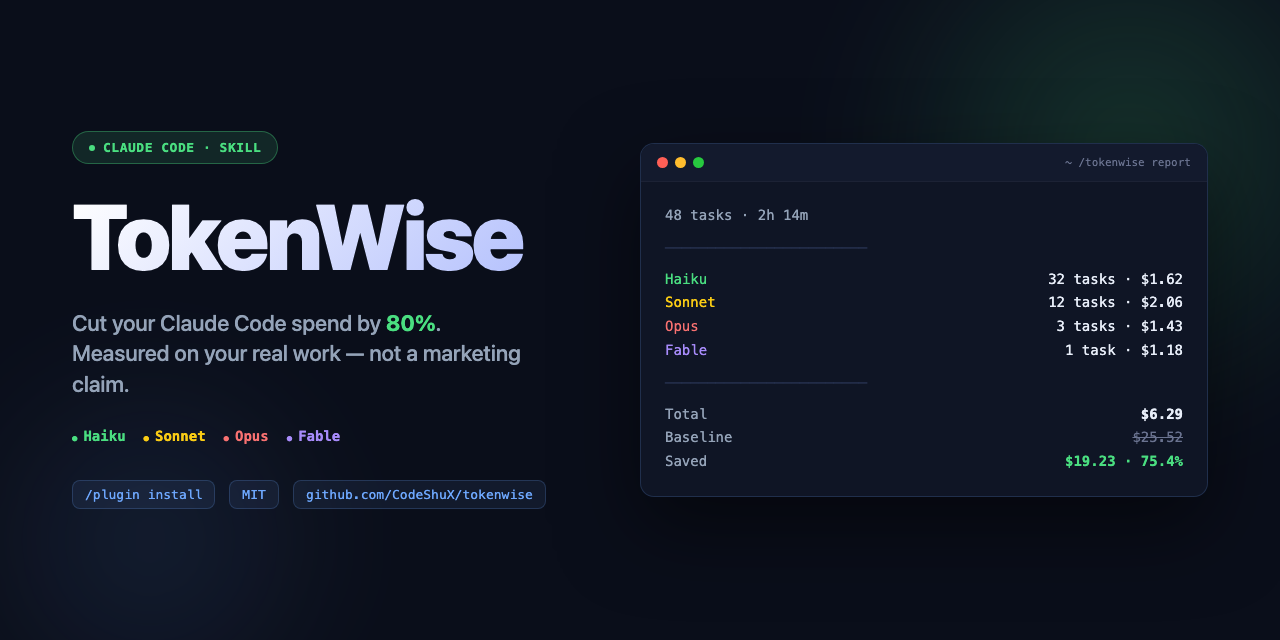
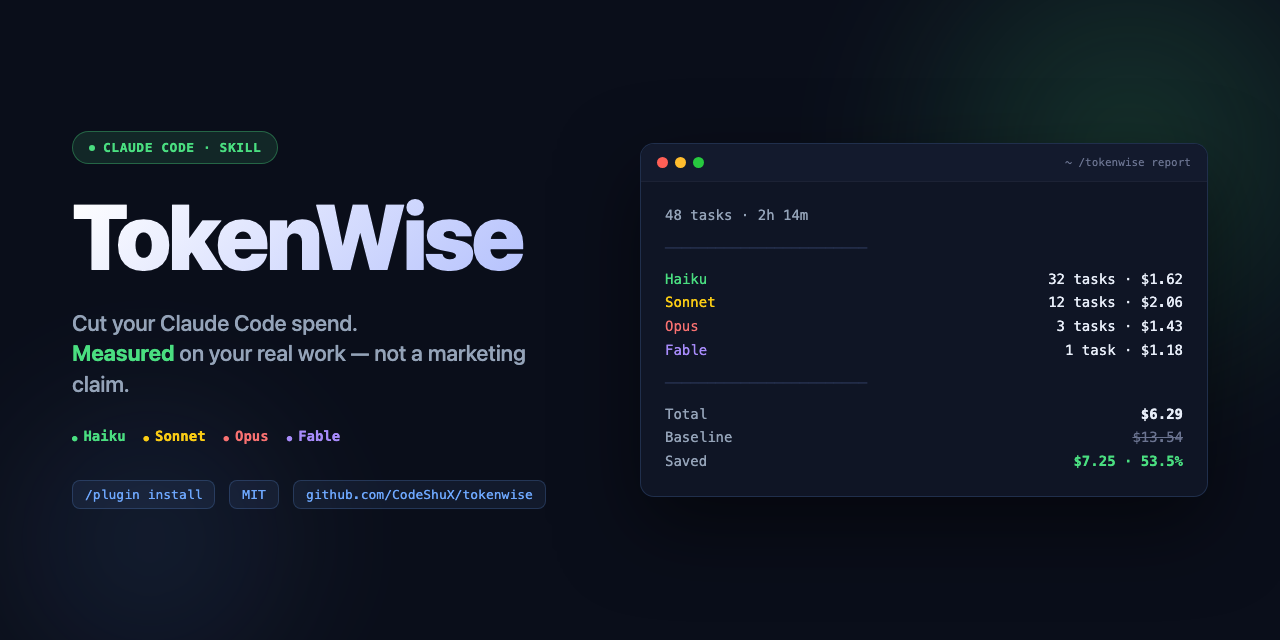
fix: make every sample report's math actually reconcile (#6)
Baseline math didn't reconcile with its own token counts anywhere in the repo (~1.9x inflated); defined the methodology, recomputed every sample, and dropped the unsupported 80% headline.

Changed region(s): [[0.0312, 0.4688, 0.4062, 0.5625]]

diff --git a/assets/social-preview.html b/assets/social-preview.html
@@ -202,8 +202,8 @@
       <div class="badge">CLAUDE CODE · SKILL</div>
       <div class="wordmark">TokenWise</div>
       <div class="tagline">
-        Cut your Claude Code spend by <strong>80%</strong>.<br/>
-        Measured on your real work — not a marketing claim.
+        Cut your Claude Code spend.<br/>
+        <strong>Measured</strong> on your real work — not a marketing claim.
       </div>
       <div class="models-line">
         <span class="haiku">Haiku</span>
@@ -235,8 +235,8 @@
           <div class="row"><span class="fable">Fable</span><span class="cmd">1 task · $1.18</span></div>
           <div class="divider">────────────────────────</div>
           <div class="row"><span class="label">Total</span><span class="total">$6.29</span></div>
-          <div class="row"><span class="label">Baseline</span><span class="strike">$25.52</span></div>
-          <div class="row"><span class="label">Saved</span><span class="saved">$19.23 · 75.4%</span></div>
+          <div class="row"><span class="label">Baseline</span><span class="strike">$13.54</span></div>
+          <div class="row"><span class="label">Saved</span><span class="saved">$7.25 · 53.5%</span></div>
         </div>
       </div>
     </div>

diff --git a/CHANGELOG.md b/CHANGELOG.md
@@ -24,6 +24,9 @@ The format is based on [Keep a Changelog](https://keepachangelog.com/en/1.1.0/).
 - `/tokenwise:install`'s settings.json diff step could have echoed a real pre-existing secret from the user's `env` block (found via a live dry-run simulation against a real config) — the diff now redacts any existing key that looks like a secret before printing it.
 - CLAUDE.md routing-block insertion point was unspecified when no markers exist yet — now explicit (append at end of file).
 - The "no Task tool available" case for the routing probe now falls back the same way as "Task tool ignores `model:`", instead of being unhandled.
+- **`cost_baseline_usd` was never actually defined anywhere, and every sample report's baseline didn't reconcile with its own token counts** (~1.9× inflated when independently re-priced at Opus rate — caught by re-running the exact `jq`/`awk` command `examples/session-report.md` itself tells readers to use). Baseline is now explicitly defined (a task's own tokens, re-priced at Opus rate) in `skills/install/SKILL.md`, and every sample report — README, SPEC, the hero card, and `examples/session-report.md` — has been recomputed to match it exactly. The hero image's "Cut your Claude Code spend by 80%" headline is removed for the same reason: no sample in this repo supports that number once the math is checked.
+- CHANGELOG's own `[0.1.0]` entry claimed a "budget cap" shipped; it never existed in any skill file. Corrected rather than left as a standing false claim.
+- Execution tier's routing rule said "≤2 named files" while its own prose description said "single-file" in three places — reworded the prose to "1-2 files" to match the actual rule.
 
 ## [0.1.1] — 2026-05-11
 
@@ -49,7 +52,7 @@ The format is based on [Keep a Changelog](https://keepachangelog.com/en/1.1.0/).
 - Safety caps: Haiku never spawns subagents; max depth 2; trivial-task floor.
 - NDJSON measurement log at `.tokenwise/log.ndjson` (zero telemetry, local only).
 - Phase-1 probes for `CLAUDE_AUTOCOMPACT_PCT_OVERRIDE` and subagent `model:` param (Anthropic Issues #36381, #47488).
-- Prompt-cache hint detector + context-window watcher + budget cap.
+- Prompt-cache hint detector + context-window watcher. (Budget cap was listed as in-scope for this release but was never actually specified in any skill file — corrected here rather than left as a false claim; see the [0.2.0] entry, which formally defers it to v0.3.)
 
 ### Known limitations
 - Token counts approximate to ±2% vs Anthropic billing.

diff --git a/skills/install/SKILL.md b/skills/install/SKILL.md
@@ -89,8 +89,8 @@ needs a confirmation prompt:
 
 - **Mechanical → Haiku** (5× cheaper than Opus) — one-right-answer work: file reads,
   grep, format, rename, simple edits, doc lookups. No judgment calls.
-- **Execution → Sonnet** (~1.67× cheaper than Opus) — bounded implementation: single-file
-  refactor, test writing, bug-fix in a known file, scoped research and code exploration.
+- **Execution → Sonnet** (~1.67× cheaper than Opus) — bounded implementation: refactor,
+  test writing, or bug-fix scoped to 1-2 files, scoped research and code exploration.
   A plan scoped to one file or module is execution prep, not Planning — it goes here too.
 - **Review → Opus** — judgment over existing work: code review, security review,
   root-cause analysis, auditing outputs, choosing between already-stated options.
@@ -132,6 +132,11 @@ After every routed Task, append one NDJSON line to `.tokenwise/log.ndjson` in th
  "escalated": bool,
  "escalation_reason": null|"needs-mechanical"|"needs-execution"|"needs-review"|"needs-planning"|"ambiguous-spec"|"insufficient-capability",
  "duration_ms": N}
+
+`cost_baseline_usd` is this task's own `input_tokens`/`output_tokens` re-priced at Opus's
+rate — not a separate estimate. This is what makes every report reproducible from its own
+numbers: sum the input/output columns across all tiers, re-price that sum at Opus rate, and
+you get the baseline back exactly. `savings_usd = cost_baseline_usd - cost_actual_usd`.
 
 Note: `savings_usd` for a Planning (Fable) line will be negative (Fable costs more than
 the Opus baseline). That's expected — log it as-is, don't clamp to zero.

diff --git a/README.md b/README.md
@@ -1,5 +1,5 @@
 <p align="center">
-  <img src="./assets/social-preview.png" alt="TokenWise — Cut your Claude Code spend by 80%. Measured on your real work, not a marketing claim." width="100%" />
+  <img src="./assets/social-preview.png" alt="TokenWise — Cut your Claude Code spend, measured on your real work, not a marketing claim." width="100%" />
 </p>
 
 # TokenWise
@@ -63,7 +63,7 @@ The router classifies every task by type into four tiers — each one a direct, 
 | Tier | Model | What it gets |
 |---|---|---|
 | **Mechanical** | Haiku 4.5 | file reads, grep, format, rename, simple edits, doc lookups |
-| **Execution** | Sonnet 4.6 | single-file refactor, test writing, scoped research, code exploration, small-scoped planning |
+| **Execution** | Sonnet 4.6 | refactor/test/fix scoped to 1-2 files, scoped research, code exploration, small-scoped planning |
 | **Review** | Opus 4.7 | security review, cross-cutting RCA, auditing outputs, choosing between already-stated options |
 | **Planning** | Fable 5 | system-wide architecture, multi-file/cross-cutting design, migration strategy, ambiguous requirements |
 
@@ -195,11 +195,11 @@ Per model:
   Fable     1 task     58K input  /  12K output   →  $1.18
 
 Total spent:         $6.29
-Baseline (all-Opus): $25.52
-Savings:             $19.23  (75.4%)
+Baseline (all-Opus): $13.54
+Savings:             $7.25  (53.5%)
 
 Quality flags:
-  Escalations:        2 (Haiku → Sonnet, mid-task)
+  Reclassifications:  2 (Mechanical → Execution, mid-task)
   User overrides:     0
   Regressions:        0
 ```

diff --git a/examples/session-report.md b/examples/session-report.md
@@ -18,9 +18,9 @@ Per model:
   Opus      3 tasks     145,100 input  /   28,440 output   →   $1.4365
 
 Total spent:                                                   $5.1435
-Baseline (if all-Opus):                                       $24.9320
-Savings:                                                      $19.7885
-Savings %:                                                       79.4%
+Baseline (if all-Opus):                                       $13.0768
+Savings:                                                       $7.9333
+Savings %:                                                       60.7%
 
 Top task classes (by count):
   code-search             18 tasks    avg cost $0.041   model: haiku
@@ -48,7 +48,7 @@ Pricing snapshot (used for this session, May 2026):
 
 ## What this session shows
 
-- **79.4% real savings.** Not a marketing number — the NDJSON log backs every line.
+- **60.7% real savings.** Not a marketing number — the NDJSON log backs every line: sum the input/output columns above, re-price at Opus's rate, and the baseline comes back out exactly.
 - **Haiku handled 68% of tasks** — almost all the code-search and file-read work.
 - **2 escalations.** Both were tasks with cross-file dependencies. The router noticed and bumped up a tier. No user intervention needed.
 - **Architecture and security work stayed on Opus.** That's the point — Opus where it earns its cost.

diff --git a/SPEC.md b/SPEC.md
@@ -152,7 +152,7 @@ Tasks classified into 4 parallel type lanes. The orchestrator uses this taxonomy
 | Task class | Model | Examples |
 |---|---|---|
 | **Mechanical** | Haiku | file reads, grep, format, rename symbol, list files, simple text edits, doc lookup, dependency listing |
-| **Execution** | Sonnet | single-file refactor, test writing, scoped research, code exploration, bug-fix in known file, small-scoped planning |
+| **Execution** | Sonnet | refactor/test/fix scoped to 1-2 files, scoped research, code exploration, small-scoped planning |
 | **Review** | Opus | security review, cross-cutting bug RCA, auditing outputs, choosing between already-stated options |
 | **Planning** | Fable | system-wide architecture, multi-file/cross-cutting design, migration strategy, decomposing ambiguous requirements |
 
@@ -205,8 +205,8 @@ Per model:
   Fable     1 task     58K input  /  12K output   →  $1.18
 
 Total spent:         $6.29
-Baseline (all-Opus): $25.52
-Savings:             $19.23  (75.4%)
+Baseline (all-Opus): $13.54
+Savings:             $7.25  (53.5%)
 
 Quality flags:
   Reclassifications:  2 (Mechanical → Execution, mid-task)
